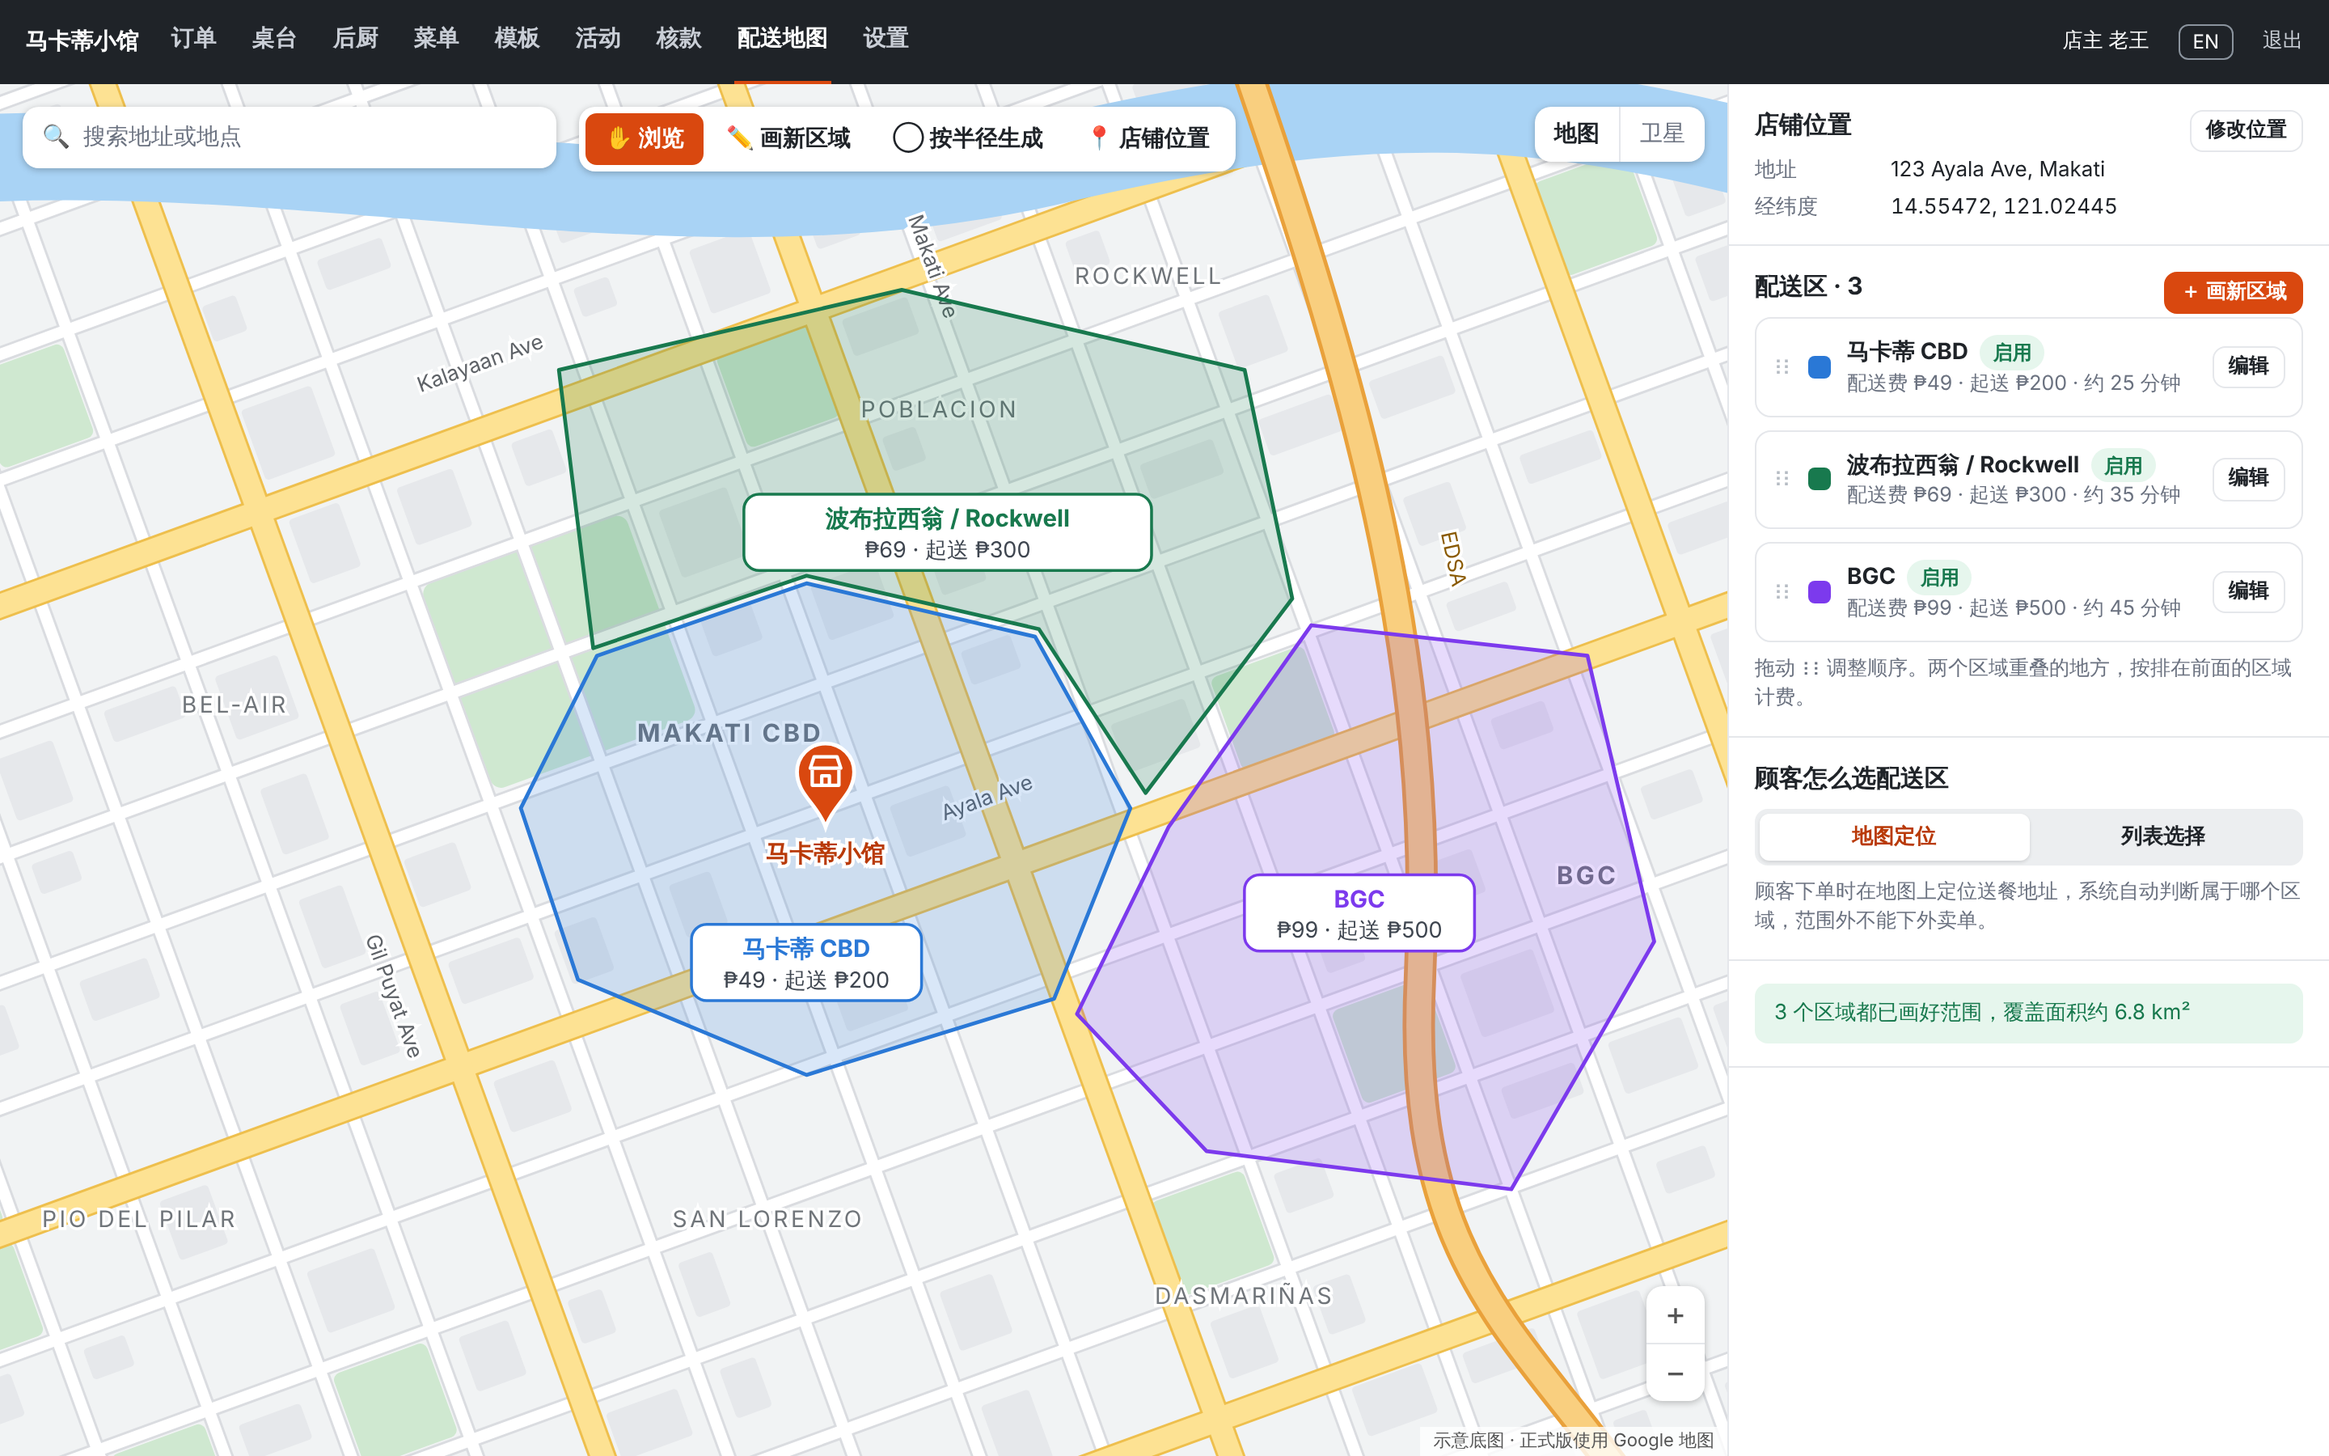
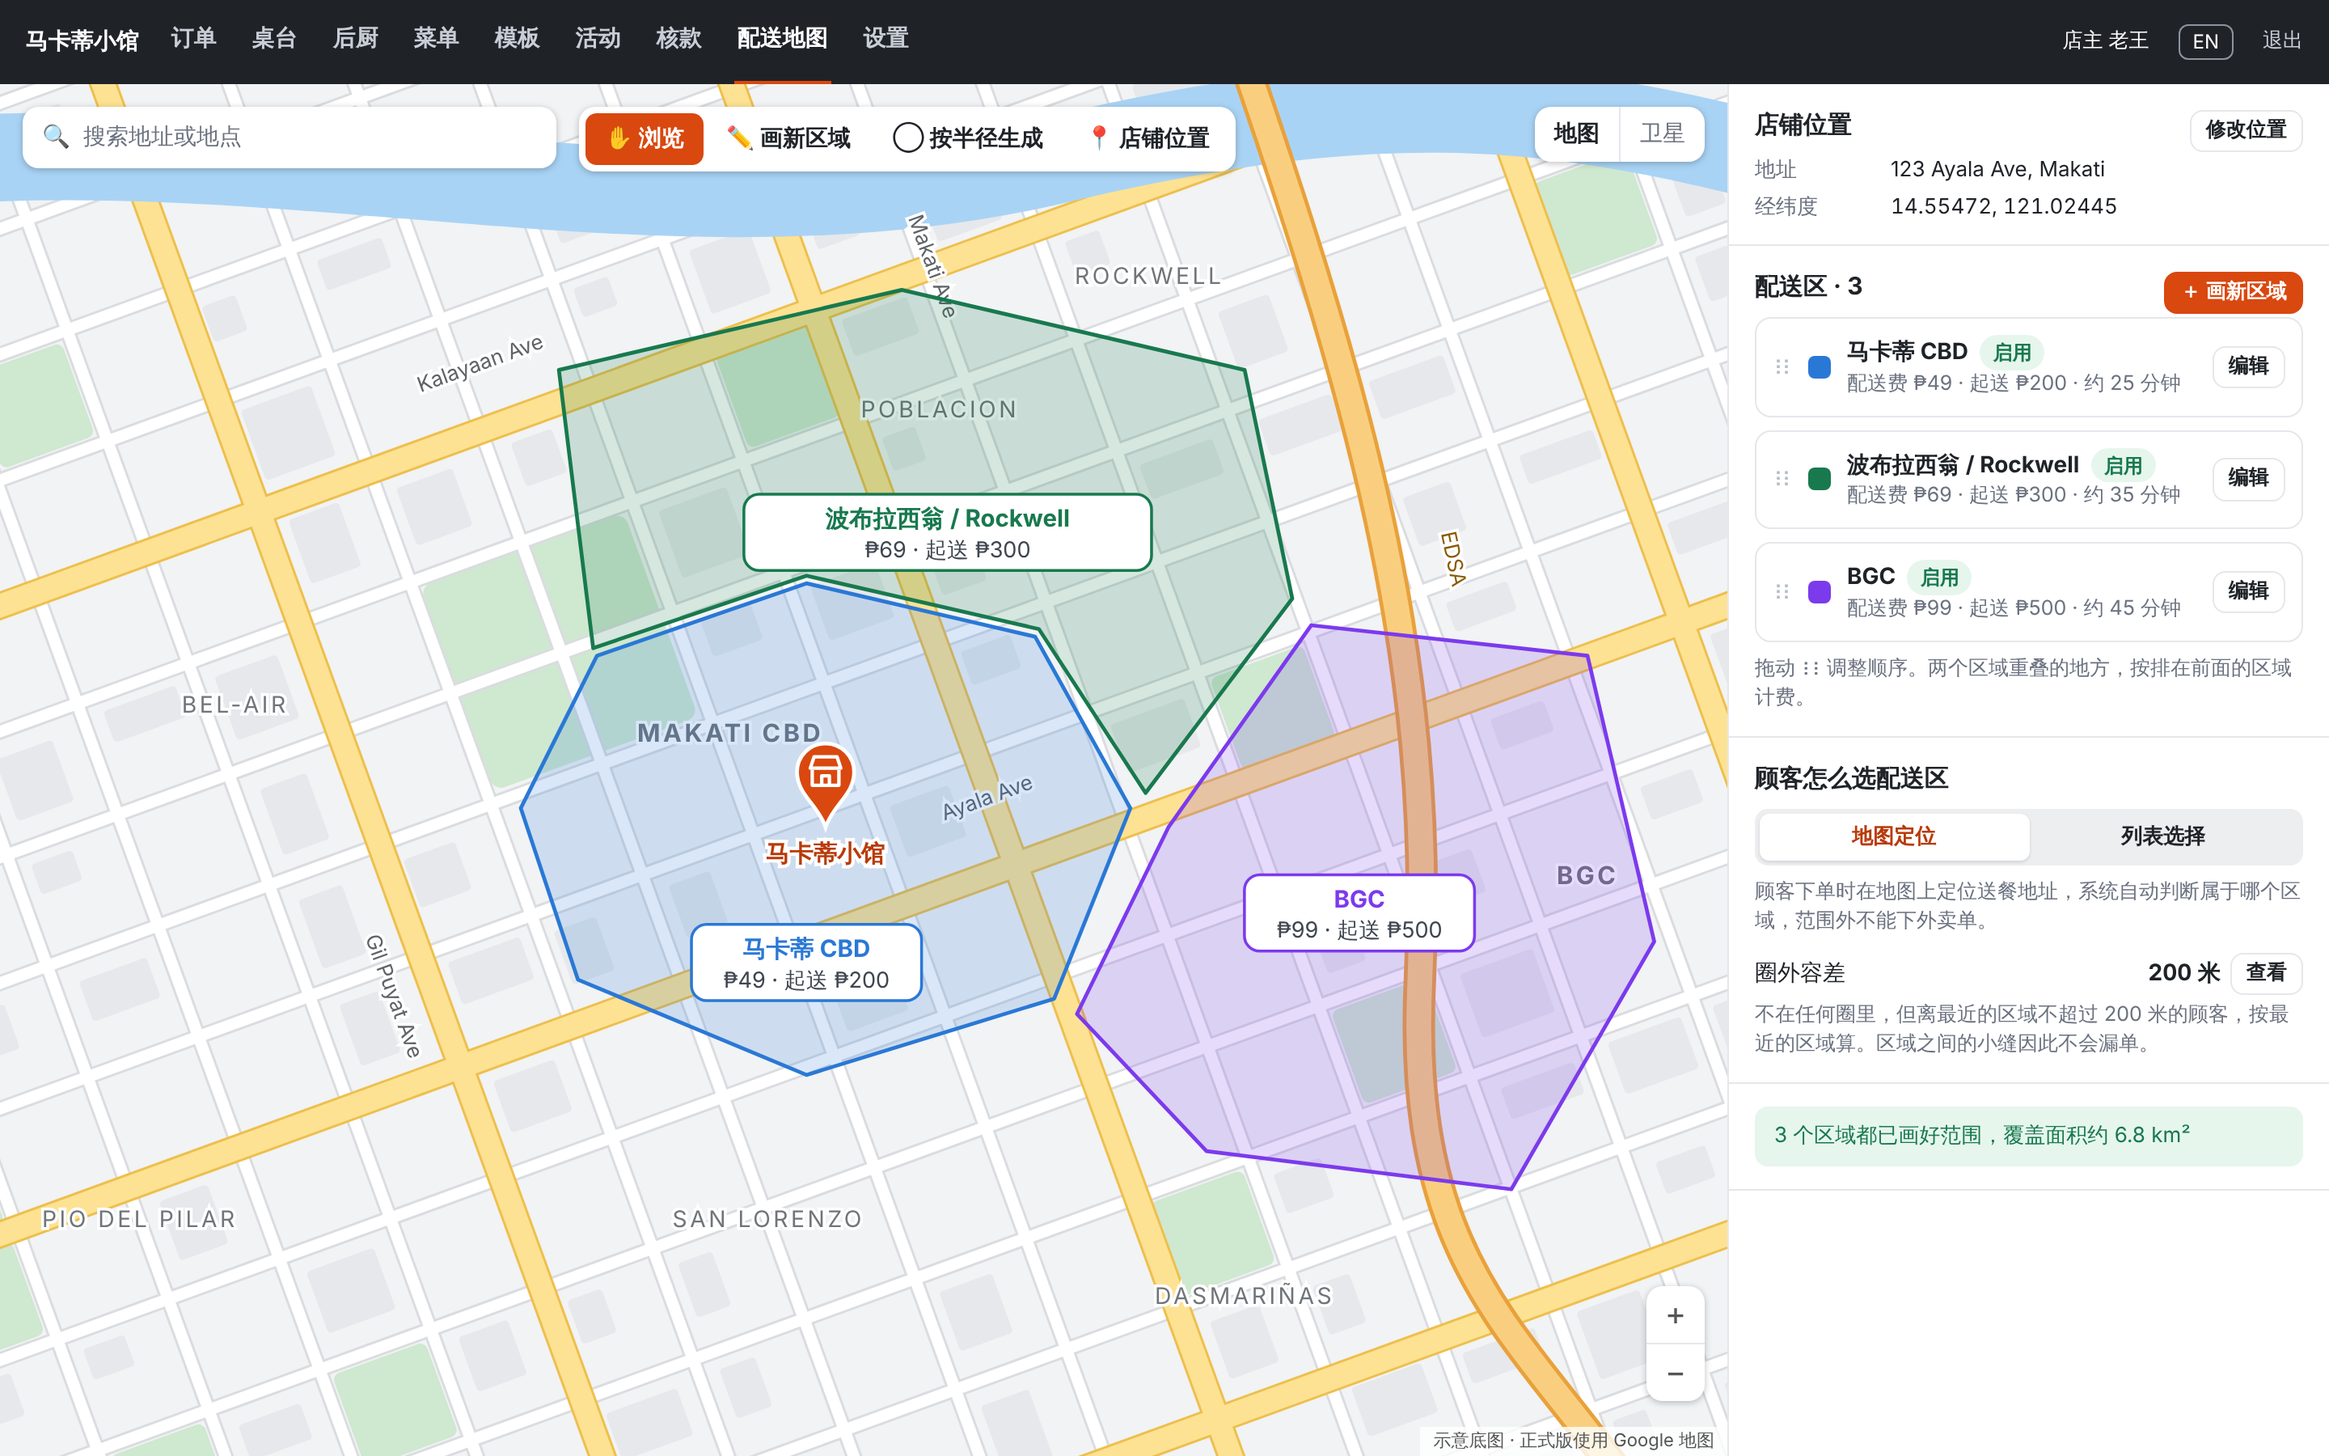
配送地图方案 v0.3：吸附防缝、缝隙检查和圈外容差
Claude-Session: https://claude.ai/code/session_0171QGWNJm5DRKLpjM12hswJ

Changed region(s): [[0.75, 0.6533, 1.0, 0.8089]]

diff --git a/docs/map-prototype/index.html b/docs/map-prototype/index.html
@@ -6,7 +6,7 @@
 <link rel="stylesheet" href="map.css">
 </head>
 <body>
-<!-- 原型：用 ?s=overview｜draw｜overlap｜form｜location 切换五个状态。底图是示意图，正式版换成 Google 地图。 -->
+<!-- 原型：用 ?s=overview｜draw｜snap｜overlap｜form｜gap｜location 切换七个状态。底图是示意图，正式版换成 Google 地图。 -->
 <nav class="staffbar">
   <b>马卡蒂小馆</b>
   <a>订单</a><a>桌台</a><a>后厨</a><a>菜单</a><a>模板</a><a>活动</a><a>核款</a><a class="on">配送地图</a><a>设置</a>
@@ -36,7 +36,7 @@
 var s = new URLSearchParams(location.search).get('s') || 'overview';
 var svg = document.getElementById('svg'), panel = document.getElementById('panel'), hint = document.getElementById('hint');
 document.querySelectorAll('.tools span').forEach(function (e) {
-  if (e.dataset.t === (s === 'form' || s === 'overlap' ? 'draw' : s)) e.className = 'on';
+  if (e.dataset.t === (s === 'form' || s === 'overlap' || s === 'snap' ? 'draw' : s === 'gap' ? 'overview' : s)) e.className = 'on';
   e.onclick = function () { location.search = '?s=' + (e.dataset.t === 'circle' ? 'overview' : e.dataset.t); };
 });
 baseMap(svg);
@@ -57,7 +57,9 @@ if (s === 'overview') {
     ZONES.map(function (z) { return zoneRow(z); }).join('') +
     '<p class="small muted">拖动 ⋮⋮ 调整顺序。两个区域重叠的地方，按排在前面的区域计费。</p></section>' +
     '<section><h2>顾客怎么选配送区</h2><div class="seg"><span class="on">地图定位</span><span>列表选择</span></div>' +
-    '<p class="small muted" style="margin-top:8px">顾客下单时在地图上定位送餐地址，系统自动判断属于哪个区域，范围外不能下外卖单。</p></section>' +
+    '<p class="small muted" style="margin-top:8px">顾客下单时在地图上定位送餐地址，系统自动判断属于哪个区域，范围外不能下外卖单。</p>' +
+    '<div class="row between" style="margin-top:10px"><span>圈外容差</span><span class="row" style="gap:6px"><b class="num">200 米</b><a class="btn small" href="?s=gap">查看</a></span></div>' +
+    '<p class="small muted" style="margin-top:4px">不在任何圈里，但离最近的区域不超过 200 米的顾客，按最近的区域算。区域之间的小缝因此不会漏单。</p></section>' +
     '<section><div class="banner ok">3 个区域都已画好范围，覆盖面积约 6.8 km²</div></section>';
 }
 
@@ -131,6 +133,56 @@ if (s === 'overlap') {
   panel.innerHTML = '<section><h2>新区域已闭合</h2><div class="kv"><span>顶点</span><span class="num">7 个</span><span>面积</span><span class="num">约 1.6 km²</span><span>重叠</span><span class="num">1 个区域，约 0.2 km²</span></div></section>' +
     '<section><p class="muted small" style="margin-bottom:8px">重叠的区域</p><div class="row"><span class="sw" style="background:#2a78d6"></span><span class="grow">马卡蒂 CBD</span><span class="small muted num">₱49 · 起送 ₱200</span></div></section>' +
     '<section><p class="small muted">选好以后还能改：在区域表单里点“改选”，或者在配送区列表里拖动顺序，排在前面的覆盖排在后面的。</p></section>';
+}
+
+if (s === 'snap') {
+  document.getElementById('map').classList.add('drawing');
+  ZONES.slice().reverse().forEach(function (z) { drawZone(svg, z, { dim: z.id !== 'cbd', label: false }); });
+  pin(svg, STORE, { text: '马卡蒂小馆' });
+  // 已有区域的顶点显示出来，当吸附目标
+  ZONES[0].pts.forEach(function (p) { svg.appendChild(el('rect', { x: p[0] - 4, y: p[1] - 4, width: 8, height: 8, fill: '#fff', stroke: ZONES[0].color, 'stroke-width': 1.5, transform: 'rotate(45 ' + p[0] + ' ' + p[1] + ')' })); });
+  var sp = [[300, 520], [350, 470], [470, 520]], tgt = [600, 480];
+  svg.appendChild(el('polyline', { points: sp.join(' '), fill: 'none', stroke: NEWZ.color, 'stroke-width': 3, 'stroke-linejoin': 'round' }));
+  svg.appendChild(el('polyline', { points: [sp[2], tgt].join(' '), fill: 'none', stroke: NEWZ.color, 'stroke-width': 2, 'stroke-dasharray': '7 6' }));
+  sp.forEach(function (p, i) { svg.appendChild(el('circle', { cx: p[0], cy: p[1], r: i ? 6 : 9, fill: i ? '#fff' : NEWZ.color, stroke: i ? NEWZ.color : '#fff', 'stroke-width': 2.5 })); });
+  svg.appendChild(el('circle', { cx: tgt[0], cy: tgt[1], r: 17, fill: '#ffd43b', 'fill-opacity': .35, stroke: '#e0a100', 'stroke-width': 2 }));
+  svg.appendChild(el('circle', { cx: tgt[0], cy: tgt[1], r: 6, fill: '#fff', stroke: NEWZ.color, 'stroke-width': 2.5 }));
+  svg.appendChild(el('path', { d: 'M' + (tgt[0] + 9) + ' ' + (tgt[1] + 14) + 'h22M' + (tgt[0] + 20) + ' ' + (tgt[1] + 3) + 'v22', stroke: '#1f2328', 'stroke-width': 2 }));
+  svg.appendChild(el('rect', { x: tgt[0] - 96, y: tgt[1] - 50, width: 192, height: 24, rx: 6, fill: '#1f2328' }));
+  svg.appendChild(el('text', { x: tgt[0], y: tgt[1] - 33.5, 'text-anchor': 'middle', 'font-size': 12, fill: '#fff' }, '已吸附到“马卡蒂 CBD”的顶点'));
+  hint.hidden = false;
+  hint.innerHTML = '鼠标靠近已有区域的顶点或边线会自动吸上去，两个区域就贴在一起，不留缝 · 按住 <kbd>Alt</kbd> 临时关闭吸附';
+  panel.innerHTML = '<section><h2>正在画新区域</h2><div class="kv"><span>已点</span><span class="num">3 个点</span><span>吸附</span><span>2 个点贴着“马卡蒂 CBD”</span></div></section>' +
+    '<section><div class="row between"><span>自动吸附到已有区域</span><span class="switch"></span></div><p class="small muted" style="margin-top:6px">离已有区域的顶点或边线不到 12 像素时吸上去。放大地图可以吸得更准。</p></section>' +
+    '<section><div class="banner info">想让两个区域紧挨着，沿着旧区域的菱形顶点一个个点过去就行。也可以故意画进旧区域一点，闭合时再选谁覆盖谁。</div></section>' +
+    '<div class="foot"><a class="btn">↶ 撤销上一个点</a><a class="btn" href="?s=overview">取消</a><a class="btn primary grow" href="?s=overlap">完成</a></div>';
+}
+
+if (s === 'gap') {
+  ZONES.slice().reverse().forEach(function (z) { drawZone(svg, z); });
+  var defs2 = el('defs', {}), pat2 = el('pattern', { id: 'gh', width: 6, height: 6, patternUnits: 'userSpaceOnUse', patternTransform: 'rotate(45)' });
+  pat2.appendChild(el('rect', { width: 6, height: 6, fill: '#ffd43b' })); pat2.appendChild(el('rect', { width: 2.5, height: 6, fill: '#1f2328' }));
+  defs2.appendChild(pat2); svg.appendChild(defs2);
+  [[[640,380],[660,390],[612,488],[600,480]], [[360,300],[470,262],[590,290],[640,380],[648,372],[592,286],[470,258],[358,296]]].forEach(function (g) {
+    svg.appendChild(el('polygon', { points: g.join(' '), fill: 'url(#gh)', stroke: '#1f2328', 'stroke-width': 1.2, 'stroke-linejoin': 'round' }));
+  });
+  pin(svg, STORE, { text: '马卡蒂小馆' });
+  function callout(x, y, tx, ty, t) {
+    svg.appendChild(el('line', { x1: x, y1: y, x2: tx, y2: ty, stroke: '#1f2328', 'stroke-width': 1.5 }));
+    var w = t.length * 12.2 + 20;
+    svg.appendChild(el('rect', { x: tx - w / 2, y: ty - 13, width: w, height: 26, rx: 6, fill: '#1f2328' }));
+    svg.appendChild(el('text', { x: tx, y: ty + 4.5, 'text-anchor': 'middle', 'font-size': 12, fill: '#fff' }, t));
+  }
+  callout(628, 436, 716, 232, '缝宽约 60 米，按近的算');
+  callout(420, 277, 250, 228, '缝宽约 15 米，按近的算');
+  panel.innerHTML = storeCard +
+    '<section><h2>区域之间的缝</h2><div class="banner warn" style="margin-bottom:10px">发现 2 处缝隙。缝里的顾客不在任何一个圈里，但离最近的区域都在 200 米容差以内，会按最近的区域算，不会被拒。</div>' +
+    '<div class="zone" style="grid-template-columns:minmax(0,1fr) auto"><div><div class="bold">马卡蒂 CBD ↔ BGC</div><div class="small muted">最宽约 60 米 · 长约 700 米</div></div><div class="row" style="gap:6px"><a class="btn small">定位</a><a class="btn small primary">一键补齐</a></div></div>' +
+    '<div class="zone" style="grid-template-columns:minmax(0,1fr) auto"><div><div class="bold">马卡蒂 CBD ↔ 波布拉西翁 / Rockwell</div><div class="small muted">最宽约 15 米 · 长约 1.9 公里</div></div><div class="row" style="gap:6px"><a class="btn small">定位</a><a class="btn small primary">一键补齐</a></div></div>' +
+    '<p class="small muted">“一键补齐”把排在后面的区域的边线贴到前面那个区域的边线上，缝就没了，可以撤销。也可以自己拖顶点，靠近时会自动吸附。</p></section>' +
+    '<section><h2>圈外容差</h2><div class="two"><label class="field" style="margin:0"><span>离最近的区域不超过（米）</span><input class="num" value="200"></label><div class="small muted" style="align-self:end">填 0 就严格按圈，圈外一律不送。</div></div>' +
+    '<p class="small muted" style="margin-top:8px">顾客不在任何圈里，但在容差以内，就按最近的区域收费和配送。注意最外圈也会跟着向外放宽这么多米。</p></section>' +
+    '<div class="foot"><a class="btn grow" href="?s=overview">返回</a><a class="btn primary grow" href="?s=overview">保存</a></div>';
 }
 
 if (s === 'location') {

diff --git a/docs/map-prototype/customer.html b/docs/map-prototype/customer.html
@@ -6,7 +6,7 @@
 <link rel="stylesheet" href="map.css">
 </head>
 <body>
-<!-- 原型：顾客下单时在地图上定位。左边在配送范围内，右边在范围外。 -->
+<!-- 原型：顾客下单时在地图上定位。左边在配送范围内，中间在两个区域的缝里，右边在范围外。 -->
 <div class="phones">
   <div><div class="phone">
     <div class="bar"><span>‹</span><span>送到哪里</span></div>
@@ -24,13 +24,27 @@
     </div></div><div class="caption">在配送范围内</div></div>
   <div><div class="phone">
     <div class="bar"><span>‹</span><span>送到哪里</span></div>
+    <div class="map"><svg class="base" id="c"></svg>
+      <div class="float search">🔍 <span style="color:#1f2328">Makati Ave cor. Paseo, Makati</span></div>
+      <div class="float locate">◎</div><div class="attrib">示意底图 · 正式版使用 Google 地图</div></div>
+    <div class="body">
+      <div class="result" style="border-color:#2a78d6;background:#f3f8ff">
+        <div class="row between"><b>可以配送 · 马卡蒂 CBD</b><span class="tag warn">边界附近</span></div>
+        <div class="small muted num" style="margin-top:4px">配送费 ₱49 · 起送 ₱200 · 约 25 分钟</div></div>
+      <p class="small muted">你的位置离“马卡蒂 CBD”配送区很近，按这个区域配送。</p>
+      <label class="field" style="margin:0"><span>楼层 / 门牌</span><input value=""></label>
+      <label class="field" style="margin:0"><span>给骑手的备注（选填）</span><input value=""></label>
+      <a class="btn primary block">确认送到这里</a>
+    </div></div><div class="caption">在两个区域之间的缝里（容差内）</div></div>
+  <div><div class="phone">
+    <div class="bar"><span>‹</span><span>送到哪里</span></div>
     <div class="map"><svg class="base" id="b"></svg>
       <div class="float search">🔍 <span style="color:#1f2328">Pio del Pilar, Makati</span></div>
       <div class="float locate">◎</div><div class="attrib">示意底图 · 正式版使用 Google 地图</div></div>
     <div class="body">
       <div class="result" style="border-color:#f3c4bf;background:#fdecea">
         <div class="row between"><b style="color:#b42318">这个位置不在配送范围</b><span class="tag">范围外</span></div>
-        <div class="small" style="margin-top:4px;color:#b42318">离最近的配送区“马卡蒂 CBD”还差约 600 米</div></div>
+        <div class="small" style="margin-top:4px;color:#b42318">离最近的配送区“马卡蒂 CBD”约 600 米，超出可配送距离</div></div>
       <p class="small muted">可以把图钉移到彩色范围里的地点，或者改成到店自取。</p>
       <a class="btn block">改为到店自取</a>
       <a class="btn primary block" style="opacity:.45">确认送到这里</a>
@@ -45,6 +59,7 @@ function phone(id, view, at, color) {
   pin(svg, at, { color: color, icon: 'dot', lift: true });
 }
 phone('a', '250 190 520 440', [540, 425], '#1d4ed8');
+phone('c', '370 215 520 440', [628, 436], '#1d4ed8');
 phone('b', '20 300 520 440', [205, 560], '#b42318');
 </script>
 </body>

diff --git a/docs/map-prototype/map.css b/docs/map-prototype/map.css
@@ -78,7 +78,7 @@ label.field > span { display: block; font-size: 13px; color: var(--muted); margi
 .seg span.on { background: #fff; box-shadow: 0 1px 2px rgba(0,0,0,.12); color: var(--brand-dark); }
 
 /* 顾客端手机稿 */
-.phones { display: flex; gap: 48px; justify-content: center; padding: 28px 20px; }
+.phones { display: flex; gap: 36px; justify-content: center; padding: 28px 20px; }
 .phone { width: 390px; background: #fff; border-radius: 28px; border: 8px solid #1f2328; overflow: hidden; display: flex; flex-direction: column; height: 800px; }
 .phone .bar { padding: 12px 16px; font-weight: 700; font-size: 16px; border-bottom: 1px solid var(--line); display: flex; gap: 10px; }
 .phone .map { height: 330px; flex: none; }
